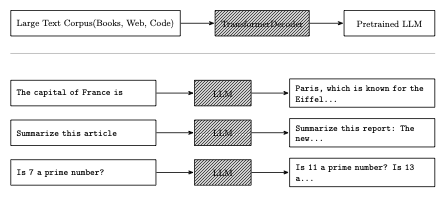
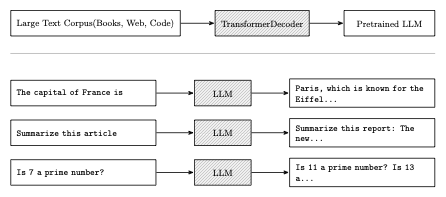
Lighten hatched pattern fill to 30% opacity in Stage 1 diagram
Set pattern color to black!30 for north east lines fill, improving
text readability in Transformer Decoder and LLM boxes.

diff --git a/Sp26/CSCE775/Project/Proposal_llm_5/survey.tex b/Sp26/CSCE775/Project/Proposal_llm_5/survey.tex
@@ -69,7 +69,7 @@ Modern pretraining has grown substantially in scale. DeepSeek-V3 (December 2024)
     box/.style={draw, thick, minimum height=0.9cm, inner sep=6pt, text centered},
     inputbox/.style={box, fill=white, align=left},
     outputbox/.style={box, fill=white, align=left},
-    modelbox/.style={box, pattern=north east lines, minimum width=2.0cm, minimum height=0.9cm},
+    modelbox/.style={box, pattern=north east lines, pattern color=black!30, minimum width=2.0cm, minimum height=0.9cm},
     flowbox/.style={box, fill=white, minimum width=3.2cm},
     flowarrow/.style={->, thick, black},
 ]

diff --git a/Sp26/CSCE775/Project/Proposal_llm_5/fig_stage1.tex b/Sp26/CSCE775/Project/Proposal_llm_5/fig_stage1.tex
@@ -9,7 +9,7 @@
     box/.style={draw, thick, minimum height=0.9cm, inner sep=6pt, text centered},
     inputbox/.style={box, fill=white, align=left},
     outputbox/.style={box, fill=white, align=left},
-    modelbox/.style={box, pattern=north east lines, minimum width=2.0cm, minimum height=0.9cm},
+    modelbox/.style={box, pattern=north east lines, pattern color=black!30, minimum width=2.0cm, minimum height=0.9cm},
     flowbox/.style={box, fill=white, minimum width=3.2cm},
     flowarrow/.style={->, thick, black},
 ]
